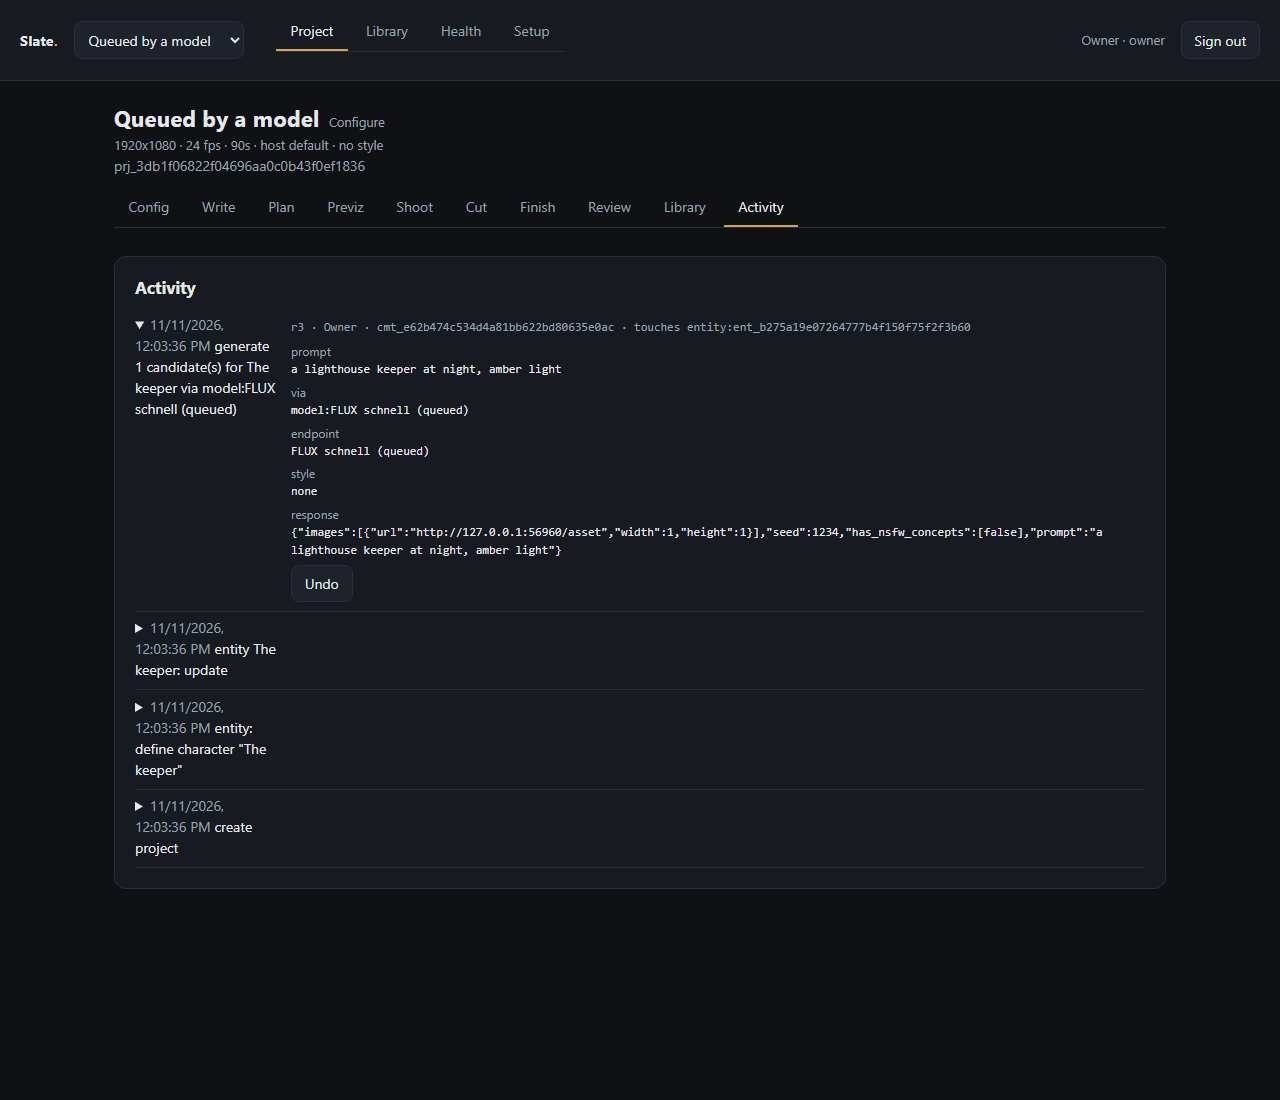
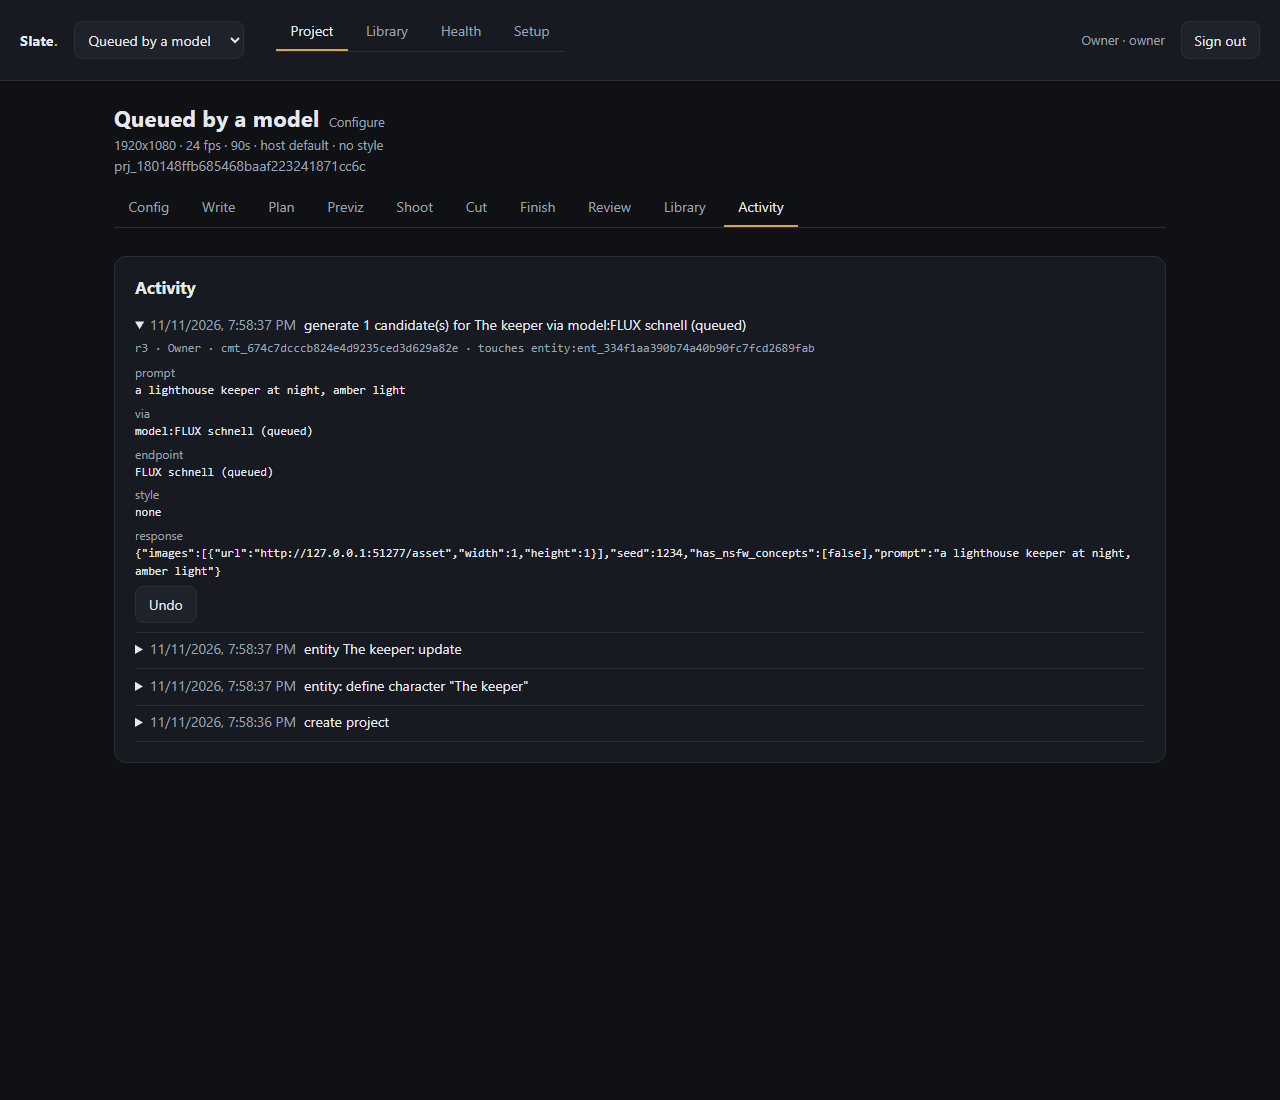
feat(ui): every activity row is one line until it is opened
Why: the summary was a grid row that wrapped, so a long intent took three lines and the log stopped being scannable - the thing a log is for. The row is now a single line: time, then the message truncated with an ellipsis, with the whole sentence in the title attribute. The disclosure marker is kept inline, because a row that does not look openable is a row nobody opens.

How verified: pnpm gate:25 opens the Activity tab and asserts every entry starts minimised and the newest opens to show its prompt; the screenshot shows four single-line rows with their markers, the first opened.

Risk: a very long intent is truncated on screen; hovering shows it in full, and opening the row shows the sentence plus the exchange.

diff --git a/web/src/styles.css b/web/src/styles.css
@@ -301,7 +301,34 @@ code,
   border-bottom: 1px solid var(--line);
 }
 
+/* A details row is its own layout: the summary is one line, and the message inside takes the full width when opened. */
+.commit:has(> summary) {
+  display: block;
+}
+
+.commit > summary {
+  /* One line, always: a log is scanned, and a wrapped entry makes the page jump about. The marker stays, because a row
+     that does not look openable is a row nobody opens. */
+  white-space: nowrap;
+  overflow: hidden;
+}
+
+.commit > summary .line {
+  /* Inline, so the marker and the message share one row instead of stacking. */
+  display: inline-flex;
+  align-items: baseline;
+  gap: 0.5rem;
+  min-width: 0;
+}
+
+.commit > summary .intent {
+  overflow: hidden;
+  text-overflow: ellipsis;
+  min-width: 0;
+}
+
 .commit time {
   color: var(--muted);
   font-variant-numeric: tabular-nums;
+  flex: none;
 }

diff --git a/web/src/pages/ProjectView.tsx b/web/src/pages/ProjectView.tsx
@@ -311,7 +311,12 @@ function Activity({ projectId, me }: { projectId: string; me: string }) {
         commits.map((commit, index) => (
           <details className="commit" key={commit.id} style={{ paddingTop: "0.35rem" }}>
             <summary style={{ cursor: "pointer" }}>
-              <time>{new Date(commit.at).toLocaleString()}</time> {commit.intent}
+              <span className="line">
+                <time>{new Date(commit.at).toLocaleString()}</time>
+                <span className="intent" title={commit.intent}>
+                  {commit.intent}
+                </span>
+              </span>
             </summary>
             <div className="muted mono" style={{ fontSize: 12, marginTop: "0.25rem" }}>
               r{commit.revision} · {commit.actor} · {commit.id}
